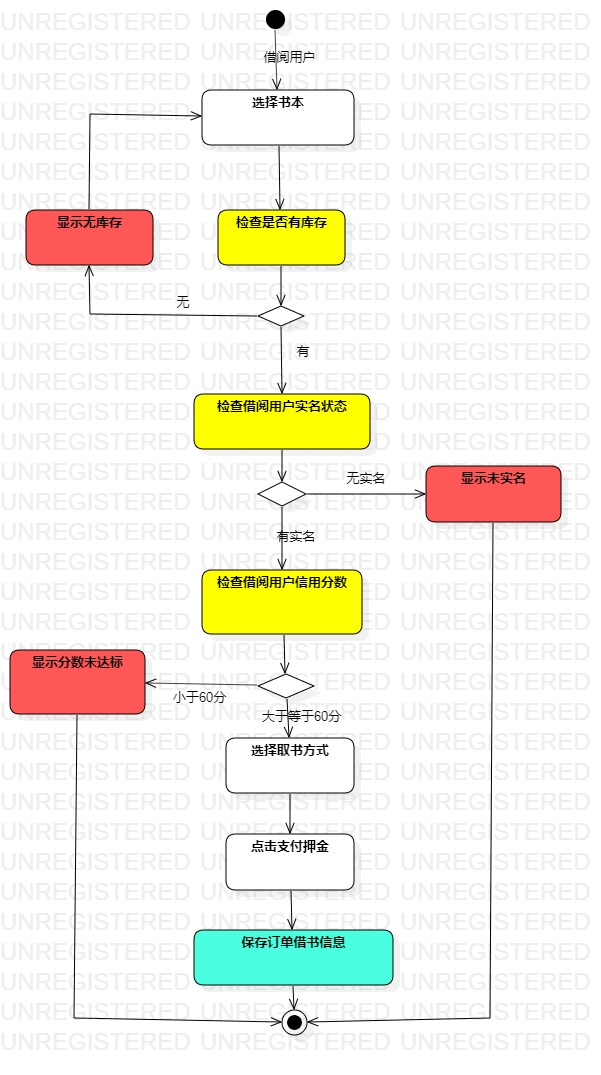
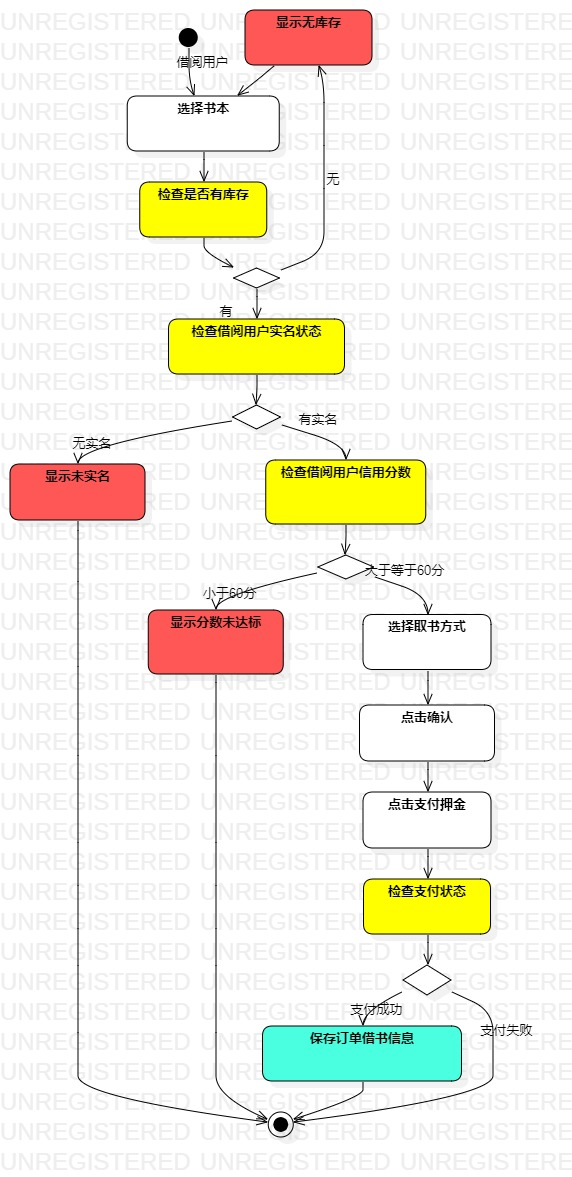
实验2、3、4、5修改

diff --git a/students/1714080902238/lab2.md b/students/1714080902238/lab2.md
@@ -34,14 +34,15 @@
 前置条件  | 借阅用户登录 |   
 基本流程  | 1. 借阅用户选好自己想要借的一本书，点击确定；  |*用例执行成功的步骤*    
 ~| 2. 系统查询到书本还有库存，检查到借阅用户已实名认证以及检查到借阅用户借书信用分数合格；  |   
-~| 3. 借阅用户选择自取或者邮寄；  |   
+~| 3. 借阅用户选择自取或者邮寄，点击确认；  |   
 ~| 4. 显示支付页面；  |   
 ~| 5. 借阅用户支付押金；  |   
-~| 6. 系统保存订单的借书信息；  |   
+~| 6. 系统检查支付状态，保存订单的借书信息；  |   
 
 扩展流程  |2.1 系统发现没有库存；  |*用例执行失败*    
 ~| 2.2 借阅用户还未实名认证；  |  
 ~| 2.3 借阅用户借书信用分数不达标；  |  
+~| 6.1 支付失败；  |  
 
 ## 表2：还书用例规约  
 
@@ -52,6 +53,9 @@
 基本流程  | 1. 借阅用户选择订单，点击还书；  |*用例执行成功的步骤*    
 ~| 2. 系统查询没有超过还书日期，显示还书地址；  |   
 ~| 3. 借阅用户选择线下还书或者邮寄；  |   
-~| 4. 系统保存订单的还书信息，发送还书地址；  |   
+~| 4. 系统查询押金余额；  |   
+~| 5. 借阅用户点击确认；  |   
+~| 6. 系统保存订单的还书信息，发送还书地址；  |   
 扩展流程  |2.1 系统查询超过了还书日期，计算滞纳金，并且在押金中扣除；  |*用例执行失败*    
+~| 4.1 借阅押金余额小于0；  | 
 
